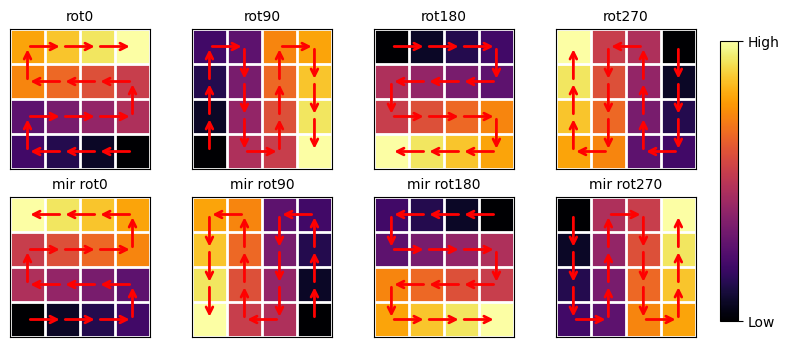
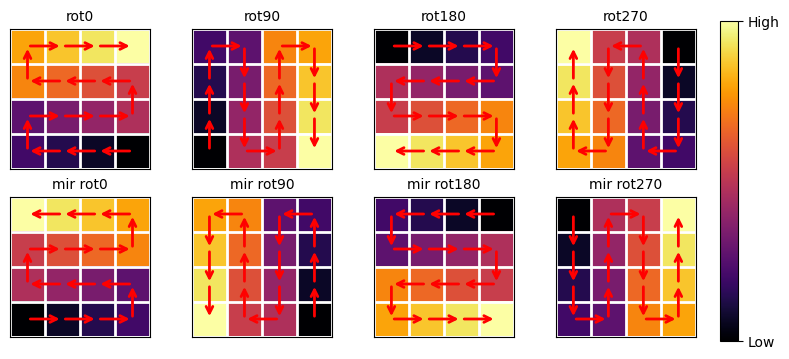
updated files

diff --git a/pages/index.tsx b/pages/index.tsx
@@ -12,7 +12,7 @@ export default function Home() {
           <div className="w-[600px] mr-[15px] mt-[10px] mx-auto text-left">
             <div className="flex items-center mb-[-10px]">
               <h1 className="font-bold text-7xl underline text-white" style={{ textDecorationColor: '#880000' }}>angela qian</h1>
-              <img src="https://avatars.githubusercontent.com/u/107577606" className="w-[140px] h-[140px] rounded-full object-cover relative top-[-20px] ml-[30px]" alt="avatar" />
+              <img src="\pfp.jpg" className="w-[140px] h-[140px] rounded-full object-cover relative top-[-20px] ml-[30px]" alt="avatar" />
             </div>
             <p className="text-lg mb-[10px]">I am a junior at Purdue University pursuing a major in Computer Science and a minor in Mathematics. </p>
             <p className="text-lg mb-[10px]">In my free time, you can catch me drawing, reading, or playing piano.</p>

diff --git a/markdown/projects/2048-AI.md b/markdown/projects/2048-AI.md
@@ -3,44 +3,44 @@
 
 Okay, this is my first ever blog post. This may suck. I'm sorry in advance.
 ## TL;DR: I made an AI that plays 2048
-I've been mildly (okay, *extremely*) obsessed with 2048 since I was around ten years old. Something about the funny tiles with big numbers tickles my brain really good. Anyways, I'm studying computer science in college right now, and lately I've gotten interested in learning about machine learning. So I figured, why not combine the two?
+I've been mildly (okay, *extremely*) obsessed with 2048 since I was around ten years old. Funny tiles with big numbers tickles brain really good. Anyways, I'm studying computer science in college right now, and lately I've gotten interested in learning about machine learning. So I figured, why not combine the two?
 ## Plot Twist: I don't know what I'm doing
-I got all hyped up about making a 2048 bot, but soon got brought back to the crushing reality that: I'm a stupid little undergrad with a smooth little brain and do not know much about machine learning. 
+I got all hyped up about making a 2048 bot, but soon got brought back to the crushing reality that: I'm a stupid little undergrad with a smooth little     brain and do not know much about machine learning. 
 
-I started looking into some machine learning techniques, and the one that stood out to me most was imitation learning — basically, monkey see, monkey do. The reason? I honestly just wanted to avoid the headache of coming up with a way to "quantify" or "rank" how good a move is. With imitation learning, each state-action pair is directly labeled, and the model just learns to do the same. 
+I started looking into some machine learning techniques, and the one that stood out to me most was imitation learning — basically, monkey see, monkey do. The reason? I honestly just wanted to avoid the headache of coming up with a way to "quantify" or "rank" how good a move is. With imitation learning, the model is given a bunch of state-action pairs, and learns to predict the next action from a given state.
 ## What would I do? Let’s make the bot guess
-Thanks to doing some undergrad research assistant stuff under my researchman (if you're reading this shahab or guven, hi!!! you guys are super cool, thanks for putting up with me lmao), I know that usually training these types of models requires *massive* amounts of data. Like, hundres or even thousands of games. So of course, my first instinct is to search online for some pre-existing datasets I can use.
+Thanks to doing some undergrad research assistant stuff under my researchman, I know that usually training these types of models requires *massive* amounts of data. Like, hundreds or even thousands of games. So of course, my first instinct is to search online for some pre-existing datasets I can use.
 
 I *did* manage to find some datasets of 2048 games online, but after digging into the stats, it turns out those players don’t perform nearly as well as I do. For reference, here was my highscore from last summer: 
-![2048 Highscore](/highscore.png)
+![2048 Highscore](/projects/2048-AI/highscore.png)
 
 Not only did their games tend to end much earlier than mine, looking through their gameplay, a lot of their moves were less than strategic. And as the saying goes — if you want something done right, do it yourself. 
 
-I ended up making what was essentially a key-logger that saves the board state with the corresponding move I make into a JSON file, which also allows me to undo a move in case I make a mistake to avoid saving "bad moves". After collecting a staggering 8 games (ok, not a lot lol but in my defense each game lasts more than half an hour and i don't have much free time since i'm employed over the summer), it's time to start training!
+I ended up making what was essentially a key-logger that saves the board state with the corresponding move I make into a JSON file, which also allows me to undo a move in case I make a mistake to avoid saving "bad moves". After collecting a staggering 8 games (ok, not a lot lol but in my defense each game lasts anywhere from half an hour to four hours and i don't have much free time since i'm employed over the summer), it's time to start training!
 
 ## A Convoluted Solution
-When looking into how to do imitation learning, the first method I came across was using multilayer perceptrons. Essentially, it's a type of neural network that processes multiple inputs, and returns a single output. This seemed like a good solution, as I could use the 16 grids of the game board as the input, then have it return the direction to move the tile in. I trained it on the 8 games I have, load the model into the game and... yeah it sucks. Half the moves it was making were things I would never do. Back to the drawing board.
+When looking into how to do imitation learning, the first method I came across was using Multilayer Perceptrons (MLPs). Essentially, it's a type of neural network that processes multiple inputs, and returns a single output. This seemed like a good solution, as I could use the 16 grids of the game board as the input, then have it return the direction to move the tile in. I train it on the 8 games I have, load the model into the game and... yeah it sucks. Half the moves it was making were things I would never do. Back to the drawing board.
 
-Maybe the problem lies with my data? When I play 2048, I tend to shove my big tiles in the top-right corner, favoring the upper edge. The model would have only learned to play well in that one orientation, so when it loses that structure, it struggles to recover. That's also a problem if someone wanted to try playing the game themself, then swap in the bot mid-way — their tile alignment may be different than mine. Even natural gameplay sometimes shifts the board’s orientation over time. I duplicate my data to represent all 8 rotations (4 for each 90 degree rotation, then 2 for each mirror) and there is a *slight* improvement, but it's still comically bad.
+Maybe the problem lies with my data? When I play 2048, I tend to shove my big tiles in the top-right corner, favoring the upper edge. 
+![My preferred orientation](/projects/2048-AI/preference.png)
 
-After some thought, it occurred to me that instead of treating each grid on the board as separate parameters to input, 
+Since the model would have only learned to play well in the same orientation as me, when it loses that structure, it struggles to recover. That's also a problem if someone wanted to try playing the game themself, then swap in the bot mid-way — their tile alignment may be different than mine. Even natural gameplay sometimes shifts the board’s orientation over time. I duplicate my data to represent all 8 rotations (4x 90° rotations, then 2x for each mirror) and there is a *slight* improvement, but it's still comically bad.
+![Mirrors and rotations](/projects/2048-AI/mirrots.png)
 
+After some thought, it occurred to me that treating each block in the grid as an independent parameter doesn't communicate any positional information, which is extremely important in 2048. To address this, I start treating the grid as an image, and switch from using multilayer perceptrons to using a Convolutional Neural Network (CNN), which takes in a matrix input, and uses convolutional layers to produce a single output. Much better results! But still not nearly as good as I had hoped. 
 
-- I made an AI that plays 2048!!!
-- i'm obsessed with 2048! and i want to learn about machine learning! natural solution? combine the two!
-- problem: i'm a stupid little undergrad with a smooth little brain and do not know much about neural networks
-- thought process: i want to use imitation learning, since frankly i didn't want to think of a way to "quantify" or "rank" how good a move is. with imitation learning, each state-action pair is directly labeled, which is pretty great and seemed doable
-- I *did* manage to find some datasets of 2048 games online, but after digging into the stats, it turns out those players don’t perform nearly as well as I do. I've been mildly (okay, *extremely*) obsessed with 2048 since I was around ten, and my highscore pictured below, speaks for itself. Simply put, I am *very* good at this game. The existing datasets don’t reflect that level of play, and frankly, they fall short compared to my own. If I want my model to do well, it should learn from the best (me). Therefore, I think the models will do well if it imitates my play style. 
-- while reading up online, the first "method" i came across was using multilayer perceptrons. 
-- i tried the method, it didn't work super well, but it was my first model so i was still pretty excited
-- i realized, if someone wanted to try playing some games then switching in the bot mid-way, or sometimes just during gameplay the sides will swap/rotate, so i added in 8 rotations
-- i find out about cnn's, i think they make more i sense, i try them out, it works much much better!!!
-- i try doing rl with self-play and ... it gets dumber. what :D put on backburner for now
-- main issue abt my cnn is it dies a *lot* early game, but if it somehow survives the earlygame, it does well, i think is because of rotation noise, so try removing earlygame in all rotations
-- it also does moves i am forced to do when it's not forced to, so i deleted all data of me choosing the down key
-- this somehow made my model even worse, so back to the drawing board!
-- i realize my model may be overfitting, so i add dropout layers
-- kitty :3
-- i notice my model messes up with rotations where for example, the original raw rotation, with the rotated 90 + mirrored version, which makes it mess up a lot since instead of 3 "valid" directions, it gets 4, which results in more mistakes. i remove 90 and 270 rotations
-- i still think my model might be overfitting, so after every epoch, i have it run 100 games and evaluate the average score, the distributions of max tile reached, then when done, it stores the model from the epoch with the highest average score
-- with reinforcement learning, i also noticed that the scores would dip a decent amount before it improves, so i instead wait for like 500 episodes, then if it's only degraded, i reload from the last best model then continue from there, if it reloads too many times in a row (8), i stop and end the training
+## Finetuning, but not
+At this point I wanted to try finetuning my model, which means taking an existing trained model and continuing to train it so it becomes better adapted for the task. I looked into some common finetuning techniques, and the one that made the most sense to me was reinforcement learning through self-play, since 2048 is a single player game where you can objectively tell how good a game was through the final score. In reinforcement learning, each full playthrough of the game is called an episode, and after each episode the model updates based on how well it did. To encourage the model to be constantly improving instead of settling for an okay-ish score, I defined the reward function as the difference between the latest episode’s score and the average score of past episodes. And...it gets worse. What. I'll put this on the backburner for now and get back to this later.
+## Playing with Data
+The main issue about my model at this point is that it dies a lot early game, but if it somehow survives past a certain point, it starts performing well, which I think is because of rotation noise. This is because early on in the game, the model seems to execute moves from various rotations, as if it can't decide which one to follow, leading me to remove the early gameplay from all rotations. I also noticed that when the game gains a large tile in a corner, it then becomes ambiguous as to which orientation the model should follow, and considering that one of the main rule-of-thumb's when playing 2048 is that you should pick a direction and *avoid it at all costs*, this becomes a bit of a problem. For example, if the largest tile is in the top-right corner, it *could* follow the orientation that favors the upper edge and mostly play moves `up`, `right`, and `left` — however, it could *also* follow the orientation that follows the right edge and mostly play moves `right`, `down`, and `up`. Because of this, all 4 directions may seem like reasonable moves, which is a *very bad idea*. 
+![Common mix-up](/projects/2048-AI/mixup.png)
+
+When playing 2048, the most common type of orientation change that happens mid game is when you continue to favor the same edge, but switch to the other corner on the edge to keep the largest tiles. Because of this, I remove half of the rotations (the ones involving 90° and 270° rotations). 
+![Natural orientation swap](/projects/2048-AI/flipsave.png)
+
+Just for good measure, I also removed all instances of when I was forced to do the "move to avoid" as a last resort from all of the rotations. When I trained my model again off this new way of processing my data, I got much better results.
+
+## Overfitting
+
+At this point, I realize that my model may be overfitting, so I add some dropout layers. There's a lot of improvement! I still think my model is overfitting, so after every epoch, I have it run 100 games and evaluate the average score, the distributions of max tile reached, then when done, it stores the model from the epoch with the highest average score. With reinforcement learning, I also noticed that the scores would dip a decent amount before it improves, so I instead wait for like 500 episodes, then if it's only degraded, I reload from the last best model then continue from there, if it reloads too many times in a row (8), I stop and end the training
+![Comparison graph](/projects/2048-AI/comparison.png)
